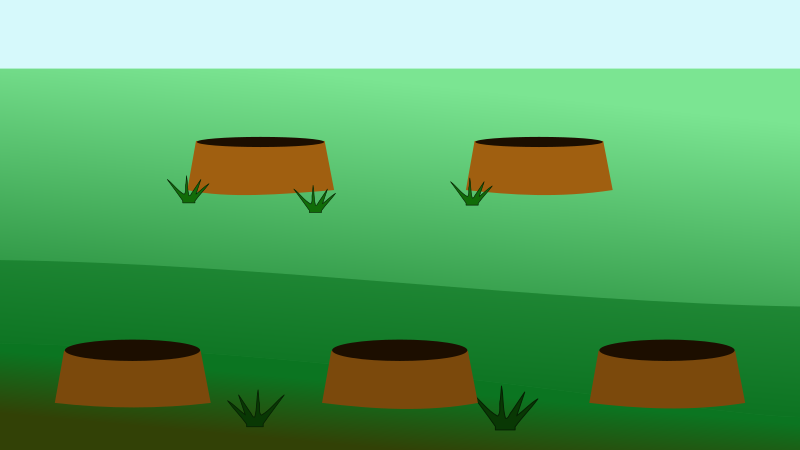
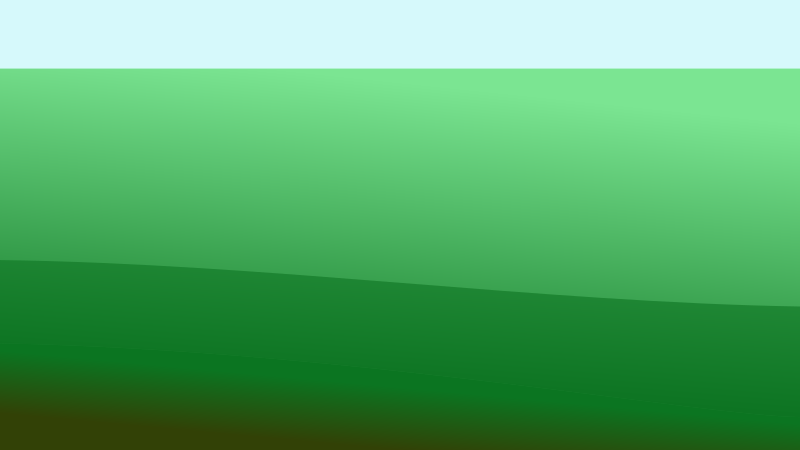
mole position, movement and scaling implemented

diff --git a/www/js/hitTheMole.js b/www/js/hitTheMole.js
@@ -1,6 +1,6 @@
 window.onload = onDeviceReady;
 
-var molePositions = [{x: 208, y: 10}];
+var molePositions = [{x: 212, y: 128}];
 var points = 0;
 var aspectRatio;
 var enlargement = 1;
@@ -19,20 +19,36 @@ function setBackgroundSize() {
     var documentHeight = window.innerHeight;
     aspectRatio = documentWidth / documentHeight;
     var background = document.getElementById("background");
+    var holes = document.getElementById("holes");
+    
     if (aspectRatio >= longestAspectRatio) {
         background.style["height"] = documentHeight + "px";
+        holes.style["height"] = documentHeight + "px";
+        document.body.style["height"] = documentHeight + "px";
         background.style["width"] = documentWidth + "px";
+        holes.style["width"] = documentWidth + "px";
+        document.body.style["width"] = documentWidth + "px";
     } else {
         var backgroundAspectRatio = 800 / 450;
         var backgroundWidth = backgroundAspectRatio * documentHeight;
         background.style["height"] = documentHeight + "px";
+        holes.style["height"] = documentHeight + "px";
+        document.body.style["height"] = documentHeight + "px";
         background.style["width"] = backgroundWidth + "px";
+        holes.style["width"] = backgroundWidth + "px";
+        document.body.style["width"] = backgroundWidth + "px";
         borderWidth = (backgroundWidth - documentWidth) / 2;
         console.log("borderWidth: " + borderWidth);
         background.style["left"] = "-" + borderWidth + "px";
+        holes.style["left"] = "-" + borderWidth + "px";
     }
 
+    console.log("backgroundHeight: " + background.offsetHeight);
     enlargement = background.offsetHeight / 450;
+    console.log("enlargement: " + enlargement + ", borderWidth: " + borderWidth);
+    var mole = document.getElementById("mole");
+    mole.style["height"] = mole.offsetHeight * enlargement + "px";
+    mole.style["width"] = mole.offsetWidth * enlargement + "px";
 }
 
 function initMoleClickHandler() {
@@ -48,18 +64,21 @@ function showTheMole() {
     setMolePosition();
     var mole = document.getElementById("mole");
     mole.style.visibility = "visible";
+    console.log("Anfang: " + mole.style["top"]);
 
-    var i = 7;
+    var i = 6;
     var interval1 = setInterval(function () {
-        mole.style.backgroundPosition = (i * -100) + "px";
+        mole.style["top"] = (mole.offsetTop - 10) + "px";
+        console.log(mole.style["top"]);
 
-        if (i === 1) {
+        if (i === 0) {
             setTimeout(function () {
-                var j = 1;
+                var j = 0;
                 var interval2 = setInterval(function () {
-                    mole.style.backgroundPosition = (j * -100) + "px";
+                    mole.style["top"] = (mole.offsetTop + 10) + "px";
+                    console.log(mole.style["top"]);
 
-                    if (j === 7) {
+                    if (j === 6) {
                         clearInterval(interval2);
                         mole.style.visibility = "hidden";
                         setTimeout(function(){
@@ -79,13 +98,9 @@ function setMolePosition() {
     var randomIndex = _.random(0, molePositions.length - 1);
 //    console.log("randomIndex: " + randomIndex + ", aspectRatio: " + aspectRatio + ", enlargement: " + enlargement);
     var molePosition = molePositions[randomIndex];
-    var positionX = molePosition["x"] * enlargement;
+    var positionX = molePosition["x"] * enlargement - borderWidth;
     var positionY = molePosition["y"] * enlargement;
-    var mole = document.getElementById("mole");
-//    mole.style["height"] = mole.offsetHeight * enlargement + "px";
-//    mole.style["width"] = mole.offsetWidth * enlargement + "px";
-//    mole.style["zoom"] = enlargement;
-//    mole.style["moz-transform"] = "scale(" + enlargement + ")";
+    console.log("positionX: " + positionX + ", positionY: " + positionY);
     mole.style["left"] = positionX + "px";
     mole.style["top"] = positionY + "px";
 //    console.log("positionX: " + positionX + ", positionY: " + positionY);

diff --git a/www/css/hitTheMole.css b/www/css/hitTheMole.css
@@ -5,6 +5,7 @@ html {
 
 body{
   font:   15px "Helvetica Neue", Helvetica, Arial, sans-serif;
+  position: fixed;
 }
 
 #timer,.points{
@@ -25,7 +26,7 @@ body{
 }
 
 #background {
-  background: #2f3d0d url(../images/background.png) no-repeat center center;
+  /*background: #2f3d0d url(../images/background.png) no-repeat center center;*/
   /*background-attachment:  fixed;*/
   /*background-size: cover;*/
   position: fixed;
@@ -33,6 +34,19 @@ body{
   height: 100%;
   top:0;
   left:0;
+  z-index: -2;
+}
+
+#holes {
+  /*background: url(../images/holes.png) no-repeat center center;*/
+  /*background-attachment:  fixed;*/
+  /*background-size: cover;*/
+  position: fixed;
+  width: 100%;
+  height: 100%;
+  top:0;
+  left:0;
+  z-index: 2;
 }
 
 .outer {
@@ -68,13 +82,13 @@ body{
 }
 
 #mole {
-    background: url(../images/mole.png) -700px 0;
+    background: url(../images/theMole1.png);
     /*opacity: 1;*/
 /*    left: 85px;
     top: 492px;*/
     background-size: cover;
-    position: relative;
-    width: 100px;
-    height: 123px;
+    position: absolute;
+    width: 80px;
+    height: 88px;
     visibility: hidden;
 }

diff --git a/www/index.html b/www/index.html
@@ -16,6 +16,7 @@
     </head>
     <body>
         <img id="background" src="images/background.png" alt="background"/>
+        <img id="holes" src="images/holes.png" alt="holes" />
         <div id="mole"></div>   
 
         <div id="timer">00:00</div>
